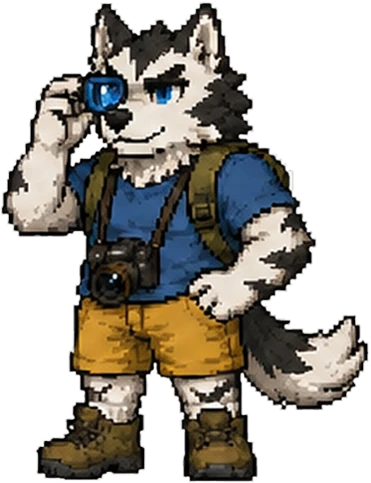
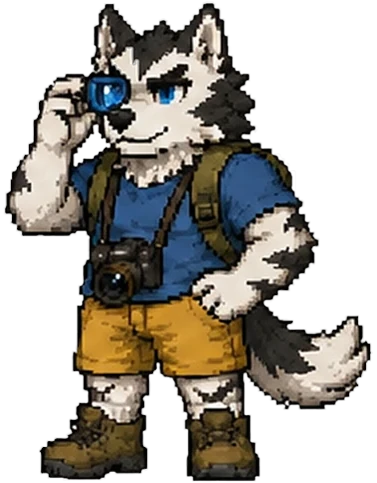
fix(web): 茶宠动画平滑化——统一帧画布 + 隐藏层预载，消除闪烁（v0139-r1）
- 根因1：每对 base/-1 帧原始尺寸不同（如 MasterTea4 342x477 vs 374x478），
  background-size:contain 按各自画布缩放 → 交替时宠物渲染尺寸跳动 = 闪烁感。
  修复：14 张图统一贴到每对帧的最大画布（水平居中+底部对齐），渲染比例完全一致
- 根因2：换背景图和淡入同一 tick（background-image 不可过渡，瞬间硬切+解码闪帧）。
  修复：tick 只切 opacity，下一帧图在上一周期（层隐藏时）预载好；
  snapFrame 同时把 -1 变体预载到隐藏层，状态切换后首帧不闪
- CSS：transition 改 ease-in-out，will-change 去掉 background-image（防强制重绘层闪烁）
- 版本 20260818-pet-fix-v0138-r1 -> 20260818-pet-smooth-v0139-r1，sw.js 0.14.2

diff --git a/public/app.js b/public/app.js
@@ -3057,14 +3057,14 @@ const TeaPetRuntime = {
     }, randBetween(this.IDLE_MIN_MS, this.IDLE_MAX_MS));
   },
 
-  // 状态切换时直接落定第 0 帧（不做无关帧的交叉溶解）
+  // 状态切换时直接落定第 0 帧（不做无关帧的交叉溶解）；同时预载 -1 变体到隐藏层
   snapFrame() {
     this.frame = 0;
-    const url = `url('images/pets/${this.fileForState()}.webp')`;
+    const base = this.fileForState();
     const a = this.layerEl(0);
     const b = this.layerEl(1);
-    if (a) { a.style.backgroundImage = url; a.dataset.visible = '1'; }
-    if (b) { b.style.backgroundImage = url; b.dataset.visible = '0'; }
+    if (a) { a.style.backgroundImage = `url('images/pets/${base}.webp')`; a.dataset.visible = '1'; }
+    if (b) { b.style.backgroundImage = `url('images/pets/${base}-1.webp')`; b.dataset.visible = '0'; }
     this.activeLayer = 0;
   },
 
@@ -3085,16 +3085,20 @@ const TeaPetRuntime = {
       return;
     }
     // 双帧 500ms 周期交叉溶解（同 UWP hold300+transition200）：base ↔ base-1 变体无限循环
+    // 平滑关键：图片只在层隐藏时替换（提前一个周期预载好），tick 只切 opacity ——
+    // 交叉溶解期间两帧都是已解码、同画布的图片 → 无解码闪帧、无尺寸跳变、无背景图硬切
     const base = this.fileForState();
     const nextFrame = this.frame === 0 ? 1 : 0;
-    const nextKey = nextFrame === 1 ? `${base}-1` : base;
     const incoming = this.layerEl(this.activeLayer ^ 1);
     const outgoing = this.layerEl(this.activeLayer);
     if (incoming && outgoing) {
-      incoming.style.backgroundImage = `url('images/pets/${nextKey}.webp')`;
-      incoming.dataset.visible = '1';
+      incoming.dataset.visible = '1';   // 淡入（图片早已预载）
       this.activeLayer ^= 1;
-      outgoing.dataset.visible = '0';
+      outgoing.dataset.visible = '0';   // 淡出
+      // 预载下一轮帧到刚隐藏的层：整个淡出+hold 周期都在解码，轮到它淡入时早已就绪
+      const afterFrame = nextFrame === 1 ? 0 : 1;
+      const afterKey = afterFrame === 1 ? `${base}-1` : base;
+      outgoing.style.backgroundImage = `url('images/pets/${afterKey}.webp')`;
     }
     this.frame = nextFrame;
   },

diff --git a/public/sw.js b/public/sw.js
@@ -1,4 +1,4 @@
-const RAI_SW_VERSION = '0.14.1-20260818-pet-fix-v0138-r1';
+const RAI_SW_VERSION = '0.14.2-20260818-pet-smooth-v0139-r1';
 const RAI_SCOPE_PATH = new URL(self.registration.scope).pathname.replace(/\/+$/, '') || '';
 const RAI_SCOPE_KEY = RAI_SCOPE_PATH ? RAI_SCOPE_PATH.slice(1).replace(/[^a-z0-9]+/gi, '-') : 'root';
 const RAI_STATIC_CACHE_PREFIX = `rai-static-${RAI_SCOPE_KEY}-`;
@@ -15,12 +15,12 @@ const RAI_AVATAR_CACHE_MAX_ENTRIES = 80;
 const RAI_STATIC_ASSETS = [
   '', 'index.html', 'runtime-brand.js?v=20260818-version-contract-v0136-r1',
   'rai-system-prompt.js?v=20260818-version-contract-v0136-r1', 'event-bindings.js?v=20260818-version-contract-v0136-r1',
-  'app.js?v=20260818-pet-fix-v0138-r1', 'styles.css?v=20260818-pet-fix-v0138-r1',
-  'local-agent.js?v=20260818-pet-fix-v0138-r1', 'local-agent.css?v=20260818-version-contract-v0136-r1',
+  'app.js?v=20260818-pet-smooth-v0139-r1', 'styles.css?v=20260818-pet-smooth-v0139-r1',
+  'local-agent.js?v=20260818-pet-smooth-v0139-r1', 'local-agent.css?v=20260818-version-contract-v0136-r1',
   'crf-ui.js?v=20260818-version-contract-v0136-r1',
   'selection-explainer.js?v=20260818-version-contract-v0136-r1', 'selection-explainer.css?v=20260818-version-contract-v0136-r1',
   'site.webmanifest?v=20260818-version-contract-v0136-r1', 'icons/source-search.svg', 'icons/rai-app-icon.svg',
-  'pet-quotes.js?v=20260818-pet-fix-v0138-r1',
+  'pet-quotes.js?v=20260818-pet-smooth-v0139-r1',
   'images/pets/MasterTea1.webp', 'images/pets/MasterTea1-1.webp',
   'images/pets/MasterTea2.webp', 'images/pets/MasterTea2-1.webp',
   'images/pets/MasterTea3.webp', 'images/pets/MasterTea3-1.webp',

diff --git a/public/index.html b/public/index.html
@@ -40,7 +40,7 @@
   <script defer src="lib/highlight/highlight.min.js?v=20260818-version-contract-v0136-r1"></script>
 
   <!-- 外部样式表 -->
-  <link rel="stylesheet" href="styles.css?v=20260818-pet-fix-v0138-r1">
+  <link rel="stylesheet" href="styles.css?v=20260818-pet-smooth-v0139-r1">
   <link rel="stylesheet" href="selection-explainer.css?v=20260818-version-contract-v0136-r1">
   <link rel="stylesheet" href="local-agent.css?v=20260818-version-contract-v0136-r1">
 </head>
@@ -2198,10 +2198,10 @@
   </div>
 
   <!-- 外部脚本 -->
-  <script defer src="conversation-cache.js?v=20260818-pet-fix-v0138-r1"></script>
-  <script defer src="pet-quotes.js?v=20260818-pet-fix-v0138-r1"></script>
-  <script defer src="app.js?v=20260818-pet-fix-v0138-r1"></script>
-  <script defer src="local-agent.js?v=20260818-pet-fix-v0138-r1"></script>
+  <script defer src="conversation-cache.js?v=20260818-pet-smooth-v0139-r1"></script>
+  <script defer src="pet-quotes.js?v=20260818-pet-smooth-v0139-r1"></script>
+  <script defer src="app.js?v=20260818-pet-smooth-v0139-r1"></script>
+  <script defer src="local-agent.js?v=20260818-pet-smooth-v0139-r1"></script>
   <script defer src="crf-ui.js?v=20260818-version-contract-v0136-r1"></script>
   <script defer src="selection-explainer.js?v=20260818-version-contract-v0136-r1"></script>
 </body>

diff --git a/public/styles.css b/public/styles.css
@@ -18801,8 +18801,8 @@ body.home-screen-active .input-wrapper > .home-action-rail {
   background-position: center bottom;
   background-size: contain;
   opacity: 0;
-  transition: opacity 200ms ease;
-  will-change: opacity, background-image;
+  transition: opacity 200ms ease-in-out;
+  will-change: opacity;
 }
 
 .rai-tea-pet-layer[data-visible="1"] {
